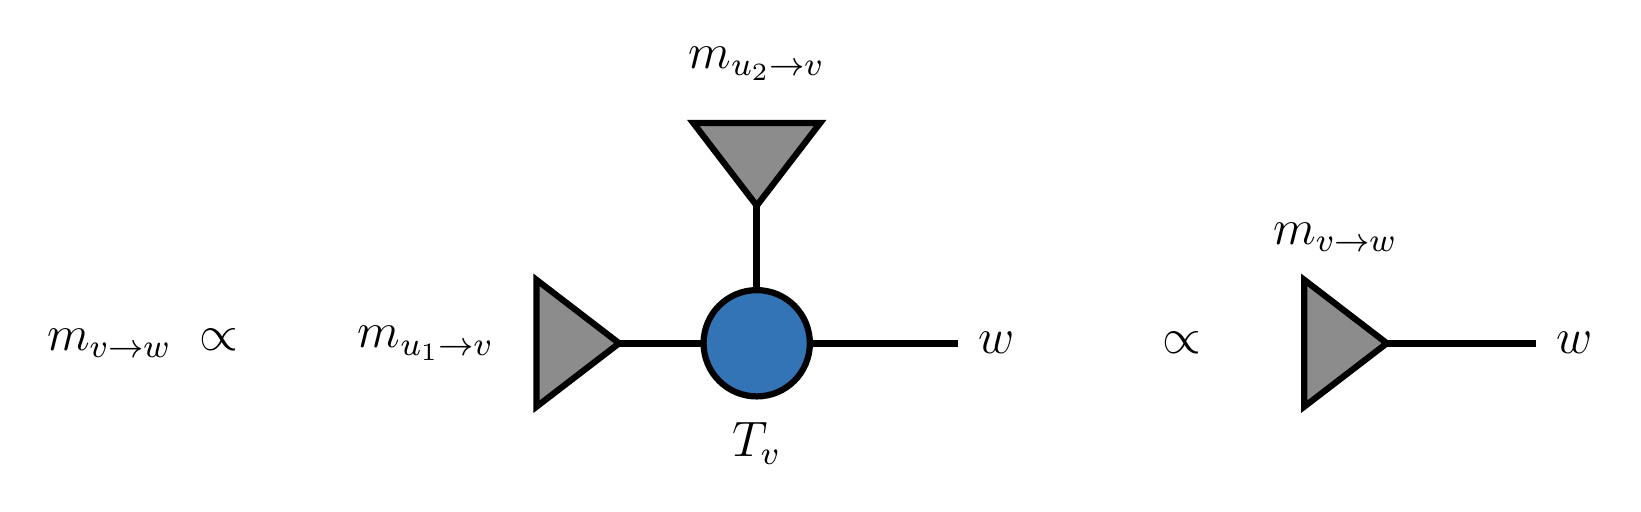
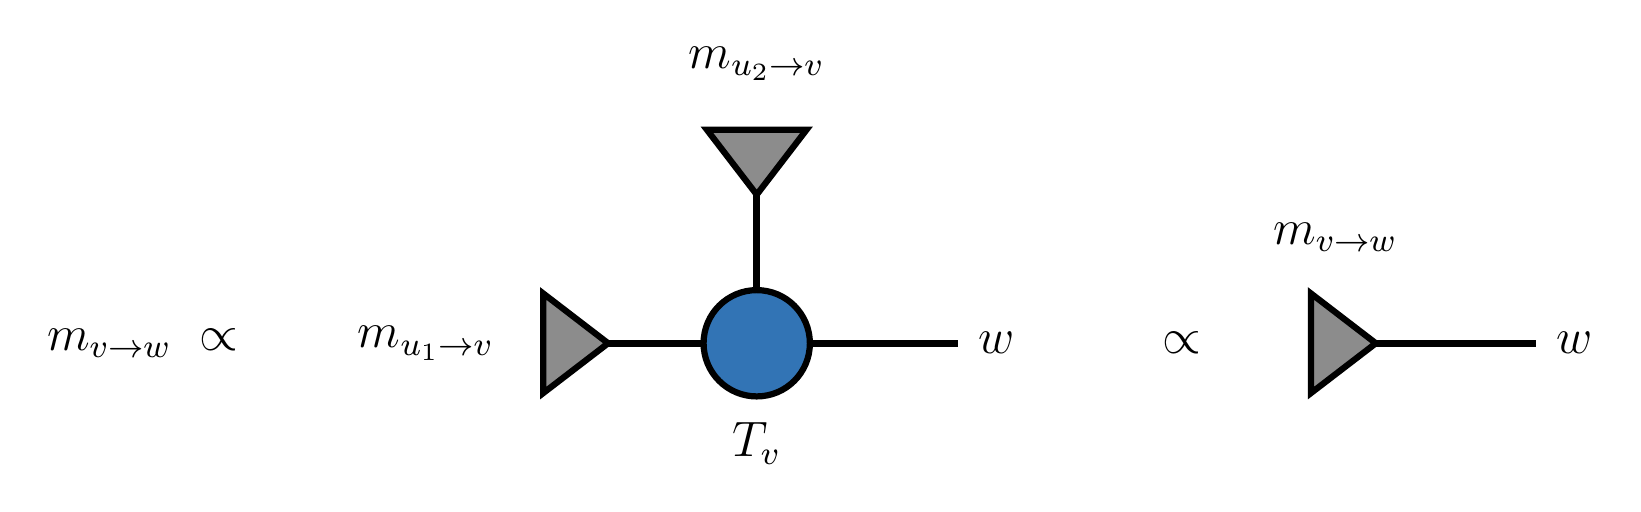
Smaller messages, and show the intermediate tensor in the update stages
The stages diagram now starts from the whole update, the incoming message
times the ket times the bra, then shows the message and ket already
contracted into one larger tensor being multiplied by the bra, then the new
message. Message triangles are a little smaller throughout.

Changed region(s): [[0.777, 0.5312, 0.8702, 0.8125], [0.3108, 0.5312, 0.3729, 0.8125], [0.404, 0.2188, 0.4973, 0.4062]]

diff --git a/Tutorials/HandsOn4/resources/diagrams/5-lazy_contraction.tex b/Tutorials/HandsOn4/resources/diagrams/5-lazy_contraction.tex
@@ -2,38 +2,40 @@
 \input{common}
 \begin{document}
 \begin{tikzpicture}
-  % (1) ket with the incoming message absorbed; the bra leg of the message is still free
+  % (1) the whole update: incoming message times ket times bra
   \begin{scope}
-    \coordinate (M) at (0,1.2);
-    \coordinate (k) at (1.7,0);
-    \draw[leg] (M) -- (k);
-    \draw[leg] (M) -- (1.7,2.4);
-    \draw[leg] (k) -- ++(0,1.4);
-    \draw[leg] (k) -- ++(1.5,0);
-    \node[msgmat] at (M) {};
-    \node[tensor] at (k) {};
-    \node[anchor=north,align=center] at (1.3,-0.7) {\small(1) ket $\times$ incoming messages};
-  \end{scope}
-  \draw[arrow] (4.0,1.2) -- (5.0,1.2);
-  % (2) close with the bra
-  \begin{scope}[xshift=6.0cm]
     \coordinate (M) at (0,1.2);
     \coordinate (k) at (1.7,0); \coordinate (b) at (1.7,2.4);
     \draw[leg] (M) -- (k); \draw[leg] (M) -- (b);
     \draw[leg] (k) -- (b);
-    \draw[leg] (k) -- ++(1.5,0); \draw[leg] (b) -- ++(1.5,0);
+    \draw[leg] (k) -- ++(1.4,0); \draw[leg] (b) -- ++(1.4,0);
     \node[msgmat] at (M) {};
     \node[tensor] at (k) {}; \node[tensor] at (b) {};
-    \node[anchor=north,align=center] at (1.3,-0.7) {\small(2) $\times$ bra};
+    \node[lab] at (1.7,-0.8) {$\psi_v$};
+    \node[lab] at (1.7,3.15) {$\overline{\psi_v}$};
+    \node[lab,anchor=north] at (0,0.45) {$m_{u \to v}$};
   \end{scope}
-  \draw[arrow] (10.0,1.2) -- (11.0,1.2);
+  \draw[arrow] (3.9,1.2) -- (4.9,1.2);
+  % (2) message and ket already contracted into one bigger tensor, times the bra
+  \begin{scope}[xshift=5.9cm]
+    \coordinate (B) at (0.4,0.3);
+    \coordinate (b) at (2.0,2.4);
+    \draw[leg] (B) to[bend left=22] (b);
+    \draw[leg] (B) to[bend right=22] (b);
+    \draw[leg] (B) -- ++(1.6,0); \draw[leg] (b) -- ++(1.4,0);
+    \node[blob] at (B) {};
+    \node[tensor] at (b) {};
+    \node[lab] at (0.4,-0.8) {$m_{u \to v}\,\psi_v$};
+    \node[lab] at (2.0,3.15) {$\overline{\psi_v}$};
+  \end{scope}
+  \draw[arrow] (10.1,1.2) -- (11.1,1.2);
   % (3) the new message
-  \begin{scope}[xshift=11.8cm]
+  \begin{scope}[xshift=12.0cm]
     \node[lab] at (0,1.2) {$\propto$};
-    \coordinate (N) at (1.2,1.2);
-    \draw[leg] (N) -- (2.9,0); \draw[leg] (N) -- (2.9,2.4);
+    \coordinate (N) at (1.1,1.2);
+    \draw[leg] (N) -- (2.6,0); \draw[leg] (N) -- (2.6,2.4);
     \node[msgmat] at (N) {};
-    \node[lab,anchor=north] at (1.2,-0.7) {$m_{v \to w}$};
+    \node[lab,anchor=north] at (1.1,0.45) {$m_{v \to w}$};
   \end{scope}
 \end{tikzpicture}
 \end{document}

diff --git a/Tutorials/HandsOn4/resources/diagrams/common.tex b/Tutorials/HandsOn4/resources/diagrams/common.tex
@@ -13,12 +13,14 @@
   op/.style={rectangle,draw,line width=1.5pt,fill=opteal,minimum size=5.6mm,inner sep=0},
   % messages are triangles pointing in the direction the message travels
   msg/.style={isosceles triangle,isosceles triangle apex angle=75,draw,line width=1.5pt,fill=msggrey,inner sep=0,
-              minimum width=5.5mm,minimum height=7mm,shape border rotate=0},
+              minimum width=4.5mm,minimum height=5.5mm,shape border rotate=0},
   msgl/.style={msg,shape border rotate=180},
   msgu/.style={msg,shape border rotate=90},
   msgd/.style={msg,shape border rotate=270},
   % a matrix message: a slightly larger triangle, its two legs fan out from it
-  msgmat/.style={msg,minimum width=7mm,minimum height=9mm},
+  msgmat/.style={msg,minimum width=5.5mm,minimum height=7mm},
+  % a partially contracted intermediate: bigger than a single tensor
+  blob/.style={circle,draw,line width=1.5pt,fill=tensorblue!55!msggrey,minimum size=14mm,inner sep=0},
   lab/.style={font=\large},
   code/.style={font=\ttfamily\large},
   arrow/.style={-{Latex[length=3mm]},line width=1.2pt},
